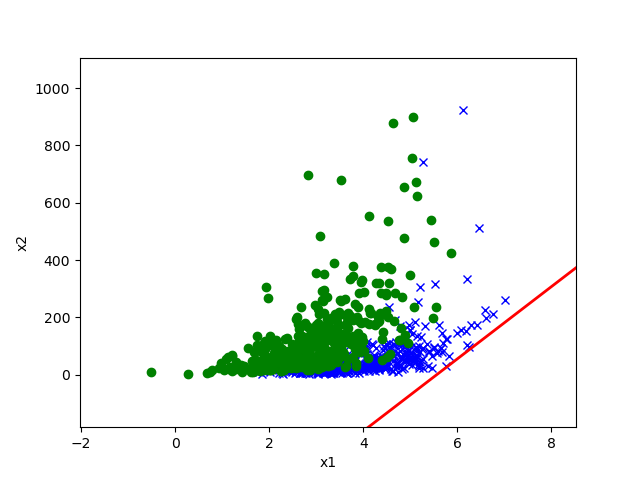
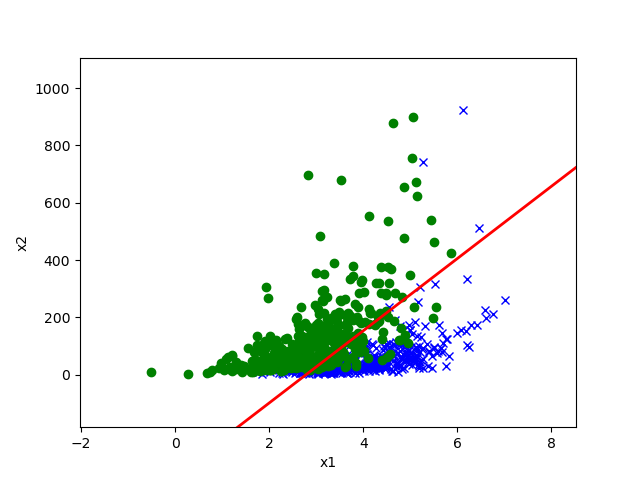
p01 done ; p01e resolve.

diff --git a/problem-sets/PS1/src/p01e_gda.py b/problem-sets/PS1/src/p01e_gda.py
@@ -13,18 +13,21 @@ def main(train_path, eval_path, pred_path):
         pred_path: Path to save predictions.
     """
     # Load dataset
+    # Since we have closed form for theta_0 and theta, we have to calculate them with d-dimensional vectors : mu's
     x_train, y_train = util.load_dataset(train_path, add_intercept=False)
-    x_eval, y_eval = util.load_dataset(eval_path, add_intercept=True)
     
     
     # *** START CODE HERE ***
     model = GDA()
     model.fit(x_train,y_train)
-
+    print(model.theta)
     # plot the data and model
     util.plot(x_train, y_train, model.theta, 'output/p01e_{}.png'.format(pred_path[-5]))
 
+
+
     # prediction
+    x_eval, y_eval = util.load_dataset(eval_path, add_intercept=True)
     y_pred = model.predict(x_eval)
     np.savetxt(pred_path, y_pred > 0.5, fmt='%d')
     print("accuracy: {}".format(np.mean((y_pred > 0.5) == y_eval)))
@@ -52,18 +55,22 @@ class GDA(LinearModel):
         """
         # *** START CODE HERE ***
         n,d = x.shape
-        # useful lang... python...!!
+        # useful lang & package... python & numpy...!!
         y_1 = sum(y == 1)
         phi = y_1 / n
         mu_0 = np.sum(x[y == 0], axis=0) / (n - y_1)
         mu_1 = np.sum(x[y == 1], axis=0) / y_1
         sigma = ((x[y == 0] - mu_0).T.dot(x[y == 0] - mu_0) + (x[y == 1] - mu_1).T.dot(x[y == 1] - mu_1)) / n
-
+        sigma_inv = np.linalg.inv(sigma)
         # from (c)
         self.theta = np.zeros(d+1)
-        self.theta[0] = mu_0.T.dot(np.linalg.inv(sigma)).dot(mu_0) - mu_1.T.dot(np.linalg.inv(sigma)).dot(mu_1) - np.log((1-phi)/phi)
-        self.theta[1:] = np.linalg.inv(sigma).dot(mu_1-mu_0)
 
+        self.theta[0] = 0.5 * mu_0.T.dot(sigma_inv).dot(mu_0) - 0.5 * mu_1.T.dot(sigma_inv).dot(mu_1) - np.log((1-phi)/phi)
+        self.theta[1:] = sigma_inv.dot(mu_1-mu_0)
+        # Alternatively, by some algebra
+        # self.theta[0] = 0.5 * (mu_0 + mu_1).dot(sigma_inv).dot(mu_0 - mu_1) - np.log((1 - phi) / phi)
+        # Or by other expression,
+        # ".dot()" can be replaced by "@"
         # *** END CODE HERE ***
 
     def predict(self, x):

diff --git a/problem-sets/PS1/src/run.py b/problem-sets/PS1/src/run.py
@@ -2,6 +2,11 @@ import argparse
 
 from p01b_logreg import main as p01b
 from p01e_gda import main as p01e
+
+from p01fg import main as p01fg
+from p01h import main as p01h
+
+
 from p02cde_posonly import main as p02
 from p03d_poisson import main as p03
 from p05b_lwr import main as p05b
@@ -14,21 +19,33 @@ args = parser.parse_args()
 
 # Problem 1
 if args.p_num == 0 or args.p_num == 1:
-    p01b(train_path='../data/ds1_train.csv',
-         eval_path='../data/ds1_valid.csv',
-         pred_path='output/p01b_pred_1.txt')
+    # p01b(train_path='../data/ds1_train.csv',
+    #      eval_path='../data/ds1_valid.csv',
+    #      pred_path='output/p01b_pred_1.txt')
 
-    p01b(train_path='../data/ds2_train.csv',
-         eval_path='../data/ds2_valid.csv',
-         pred_path='output/p01b_pred_2.txt')
+    # p01b(train_path='../data/ds2_train.csv',
+    #      eval_path='../data/ds2_valid.csv',
+    #      pred_path='output/p01b_pred_2.txt')
 
-    p01e(train_path='../data/ds1_train.csv',
+    # p01e(train_path='../data/ds1_train.csv',
+    #      eval_path='../data/ds1_valid.csv',
+    #      pred_path='output/p01e_pred_1.txt')
+
+    # p01e(train_path='../data/ds2_train.csv',
+    #      eval_path='../data/ds2_valid.csv',
+    #      pred_path='output/p01e_pred_2.txt')
+    
+    # p01fg(train_path='../data/ds1_train.csv',
+    #      eval_path='../data/ds1_valid.csv',
+    #      pred_path='output/p01e_pred_1.txt')
+    
+    # p01fg(train_path='../data/ds2_train.csv',
+    #      eval_path='../data/ds2_valid.csv',
+    #      pred_path='output/p01e_pred_2.txt')
+    
+    p01h(train_path='../data/ds1_train.csv',
          eval_path='../data/ds1_valid.csv',
          pred_path='output/p01e_pred_1.txt')
-
-    p01e(train_path='../data/ds2_train.csv',
-         eval_path='../data/ds2_valid.csv',
-         pred_path='output/p01e_pred_2.txt')
 
 # Problem 2
 if args.p_num == 0 or args.p_num == 2:

diff --git a/problem-sets/PS1/src/p01h.py b/problem-sets/PS1/src/p01h.py
@@ -1,0 +1,48 @@
+import numpy as np
+import util
+import matplotlib
+matplotlib.use('Agg')
+#
+import matplotlib.pyplot as plt
+
+#from linear_model import LinearModel
+from p01b_logreg import main as p01b
+from p01b_logreg import LogisticRegression as LR
+from p01e_gda import main as p01e
+from p01e_gda import GDA
+
+def main(train_path, eval_path, pred_path):
+
+    x_train, y_train = util.load_dataset(train_path, add_intercept = False)
+    # The reason of GDA does not perform well at ds1 
+    # is x2 of ds1 is all positive and its scale doesn't match with x1.
+    # in other words, p(x | y) is not gaussian form.
+    # so we can take the log to x2 
+    # this is called 'Box-cox transformation'.
+
+    x_trans = np.append(x_train[:,0:1], np.log(x_train[:,1:2]), axis=1)
+    t_gda = GDA()
+    t_logreg = LR(eps = 1e-5)
+    t_gda.fit(x_trans,y_train)
+    t_logreg.fit(util.add_intercept(x_trans),y_train)
+
+    x = util.add_intercept(x_trans)
+    y = y_train
+    
+    plt.figure()
+    plt.plot(x[y == 1, -2], x[y == 1, -1], 'bx', linewidth=2)
+    plt.plot(x[y == 0, -2], x[y == 0, -1], 'go', linewidth=2)
+
+    # Plot decision boundary (found by solving for theta^T x = 0)
+    models = [[t_logreg, 'red', 'logistic regression'],[t_gda,'black', 'GDA']]
+    for i,j,k in models :
+        margin1 = (max(x[:, -2]) - min(x[:, -2]))*0.2
+        x1 = np.arange(min(x[:, -2])-margin1, max(x[:, -2])+margin1, 0.01)
+        x2 = -(i.theta[0] / i.theta[2]  + i.theta[1] / i.theta[2] * x1)
+        plt.plot(x1, x2, c=j, linewidth=2)
+    #plt.legend(loc="upper left")
+    plt.savefig('output/p01h_{}.png'.format(pred_path[-5]))
+
+
+    
+

diff --git a/problem-sets/PS1/src/p01fg.py b/problem-sets/PS1/src/p01fg.py
@@ -1,0 +1,42 @@
+import numpy as np
+import util
+import matplotlib
+matplotlib.use('Agg')
+#
+import matplotlib.pyplot as plt
+
+#from linear_model import LinearModel
+from p01b_logreg import main as p01b
+from p01b_logreg import LogisticRegression as LR
+from p01e_gda import main as p01e
+from p01e_gda import GDA
+
+def main(train_path, eval_path, pred_path):
+
+    x_train, y_train = util.load_dataset(train_path, add_intercept = False)
+    gda = GDA()
+    gda.fit(x_train,y_train)
+    logreg = LR(eps=1e-5)
+    logreg.fit(util.add_intercept(x_train), y_train)
+
+    print(train_path,logreg.theta,gda.theta)
+
+    #x,y = util.load_dataset(eval_path, add_intercept=True)
+    x = util.add_intercept(x_train)
+    y = y_train
+    
+    plt.figure()
+    plt.plot(x[y == 1, -2], x[y == 1, -1], 'bx', linewidth=2)
+    plt.plot(x[y == 0, -2], x[y == 0, -1], 'go', linewidth=2)
+
+    # Plot decision boundary (found by solving for theta^T x = 0)
+    models = [[logreg, 'red', 'logistic regression'],[gda,'black', 'GDA']]
+    for i,j,k in models :
+        margin1 = (max(x[:, -2]) - min(x[:, -2]))*0.2
+        x1 = np.arange(min(x[:, -2])-margin1, max(x[:, -2])+margin1, 0.01)
+        x2 = -(i.theta[0] / i.theta[2]  + i.theta[1] / i.theta[2] * x1)
+        plt.plot(x1, x2, c=j, linewidth=2)
+    #plt.legend(loc="upper left")
+    plt.savefig('output/p01fg_{}.png'.format(pred_path[-5]))
+    # by the figure, GDA performs badly at ds1, 
+    # whereas GDA and Logistic Regression perform exactly samely at ds2.

diff --git a/problem-sets/PS1/src/test.py b/problem-sets/PS1/src/test.py
@@ -1,9 +1,24 @@
 import numpy as np
 import util
-print("Hello, World!")
 
 train_path = '../data/ds1_train.csv'
-x_train, y_train = util.load_dataset(train_path, add_intercept= True)
+x_train, y_train = util.load_dataset(train_path, add_intercept= False)
 
 n,d = x_train.shape
-print(n,d)
+# a = np.array([[1,10],[2,20],[3,30]])
+# print(a)
+# print(a[:,0:1])
+# print(a[:,1:2])
+# print(np.append(a[:,0:1], a[:,1:2], axis=1))
+print(x_train)
+print(np.append(x_train[:,0:1],np.log(x_train[:,1:2]), axis=1))
+print(np.stack((x_train[:,0], np.log(x_train[:,1])), axis=1))
+
+# n,d = x_train.shape
+# y1 = sum(y_train)
+# phi = y1/n
+# mu1 = np.zeros(d)
+# for i in range(n):
+#     if y_train[i] : mu1 += x_train[i]
+# mu0 = (sum(x_train) - mu1) / y1
+# mu1 /= y1
